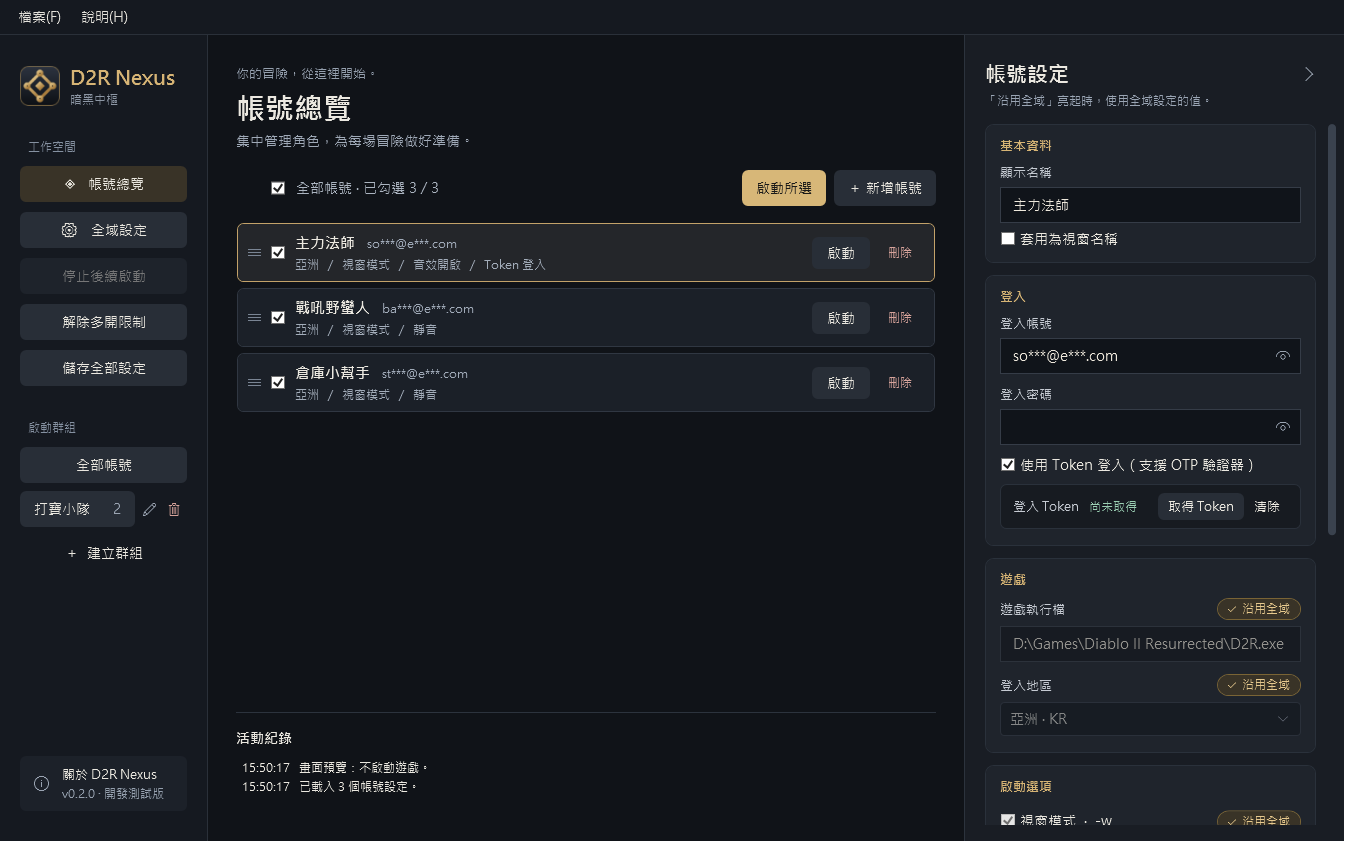
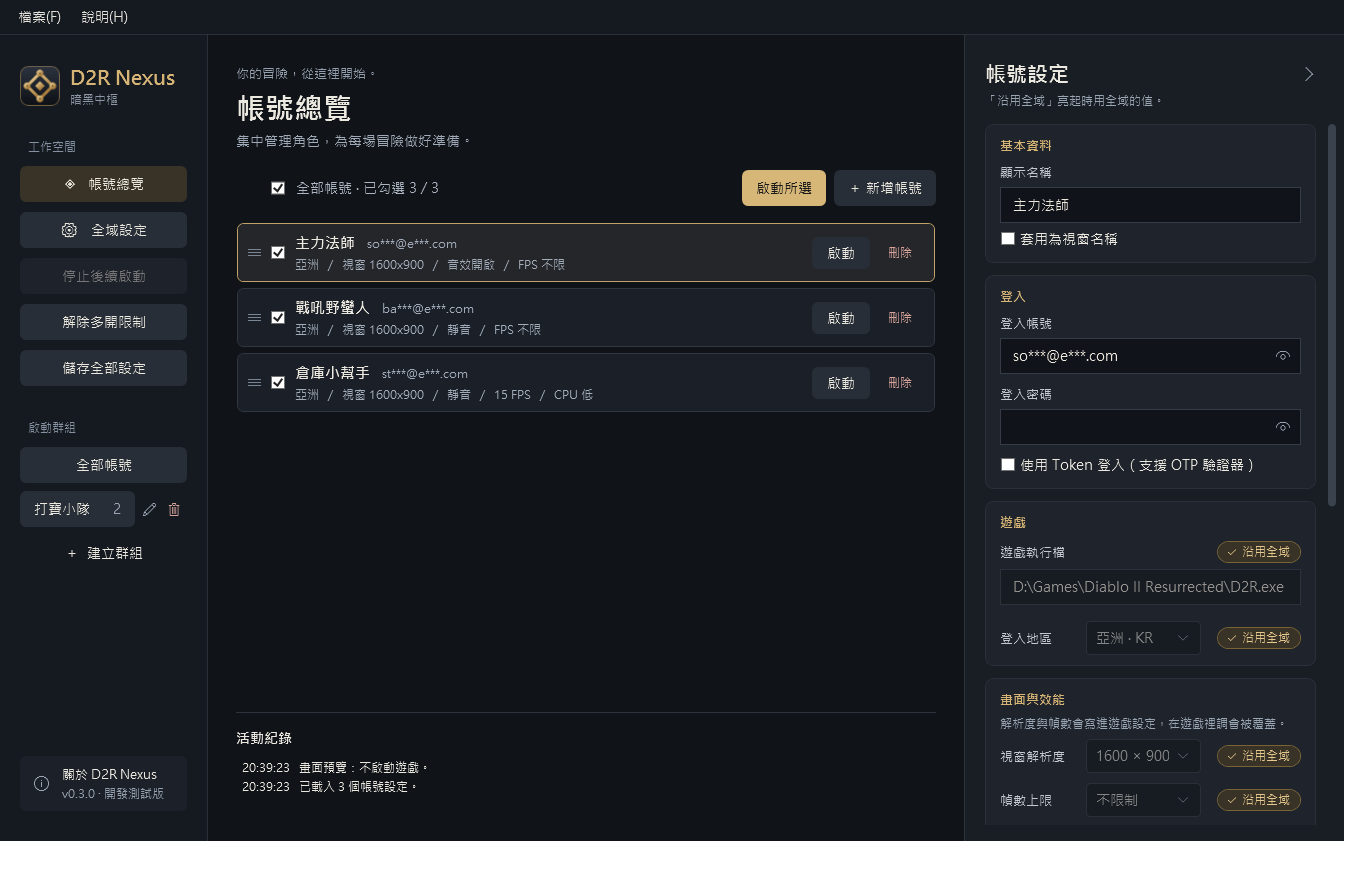
Add files via upload

diff --git a/README.md b/README.md
@@ -17,17 +17,28 @@
 
 > 目前是開發測試版，部分情境仍在實機驗證中。
 
-## 功能
+## ✨ 功能
 
-- **一鍵多開**，依你排的順序逐一開啟
-- **支援 OTP 驗證器**，手機核准一次，之後直接啟動
-- **群組**，常一起玩的帳號一鍵勾選
-- **每個帳號獨立設定**：地區、視窗模式與解析度、靜音、MOD、額外參數
-- **視窗改名**，遊戲標題改成帳號名稱
-- **畫面隱私**，帳號自動打碼；密碼與 Token 以 Windows 加密保存在本機
-- **免安裝**，一個 exe 就能執行
+**多開與登入**
 
-## 下載
+- **一鍵多開** —— 勾選帳號，依你排的順序逐一開啟，自動解除多開限制
+- **支援 OTP 驗證器** —— 手機核准一次，之後直接啟動
+- **群組** —— 常一起玩的帳號一鍵勾選
+
+**每個帳號可以各自設定**
+
+- **登入地區、視窗模式、靜音、MOD、額外參數**
+- **畫面與效能** —— 視窗解析度、幀數上限、CPU 優先順序。背景帳號鎖低幀、把優先順序設低，資源留給主力帳號
+- **視窗改名** —— 遊戲標題改成帳號名稱，多開時不會認錯
+
+**其他**
+
+- **免安裝** —— 一個 exe，不用另外裝 .NET
+- **畫面隱私** —— 帳號自動打碼；密碼與 Token 以 Windows 加密保存在本機
+- **右下角圖示** —— 按關閉鈕可以選擇收到工作列右下角，程式繼續執行
+- **檢查新版本** —— 有新版會提示，不會自動下載或安裝，可關閉
+
+## ⬇ 下載
 
 到 [Releases](https://github.com/MoroseDog/D2RNexus/releases) 下載 `D2RNexus.exe`，放在任意資料夾直接執行。[版本紀錄](CHANGELOG.md)
 
@@ -36,11 +47,11 @@
 | 系統 | Windows 10 / 11（64 位元） |
 | 遊戲 | 已安裝《暗黑破壞神 II：獄火重生》 |
 | WebView2 | OTP 登入時需要，Windows 10 / 11 通常已內建 |
-| 網路 | 登入 Battle.net；第一次多開時自動下載微軟官方工具 |
+| 網路 | 登入 Battle.net；第一次多開時下載微軟官方工具；開啟時查詢新版本（可關閉） |
 
 程式沒有購買程式碼簽章，所以會跳警告：Edge 下載時點「刪除」旁的 **∨** →「仍要保留」；執行時按「其他資訊」→「仍要執行」。原因見[安全性說明](SECURITY.md)。
 
-## 快速開始
+## 🚀 快速開始
 
 1. 開啟 Nexus，Windows 詢問管理員權限時按「是」。
 2. 左側「全域設定」→「瀏覽遊戲執行檔…」，選擇 `D2R.exe`。
@@ -50,13 +61,15 @@
 
 拖曳帳號左側的 ≡ 調整啟動順序；亮起的「沿用全域」表示該項使用全域設定，點一下改成個別設定。
 
-## 不是外掛
+> 💡 多開時，把背景帳號的**幀數上限**調低、**CPU 優先順序**設成「低」，主力帳號會順一點。
+
+## 🛡 不是外掛
 
 Nexus 只是幫你開遊戲的管理工具，**不注入程式、不讀寫遊戲記憶體、不改遊戲檔案、不攔截連線、不自動操作遊戲、不模擬鍵盤滑鼠、不繞過驗證、不上傳你的資料**。每一項做法、需要的權限和連線對象都寫在[安全性說明](SECURITY.md)。
 
 多開與第三方工具是否符合規範，最終以 Blizzard 的使用條款與判定為準，Nexus 無法保證帳號不會受到任何處分。
 
-## 常見問題
+## ❓ 常見問題
 
 <details>
 <summary>連線 Battle.net 顯示「無法認證」</summary>
@@ -74,6 +87,30 @@ Nexus 只是幫你開遊戲的管理工具，**不注入程式、不讀寫遊戲
 <summary>用 Apple、Google 等方式登入，沒有 Battle.net 密碼</summary>
 
 取得 Token 的頁面只接受 Email 和密碼。請在登入視窗按右上角的「用其他方式登入」，用平常的方式登入後再按「完成登入」。步驟見[用 Apple、Google 等方式登入](docs/apple-login.md)。
+</details>
+
+<details>
+<summary>Nexus 會改到我在遊戲裡調的設定嗎？</summary>
+
+只會寫入你在「畫面與效能」設定的**視窗解析度**和**幀數上限**，其他遊戲設定（畫質、音量、自動地圖、按鍵…）完全不碰。
+
+那兩項由 Nexus 決定，所以在遊戲裡改了之後，下次啟動會被帳號的設定覆蓋。想把遊戲裡調好的值變成預設，到「全域設定 → 畫面與效能」按一次「讀取目前遊戲設定」。
+</details>
+
+<details>
+<summary>CPU 優先順序有什麼用？</summary>
+
+多開時大家一起搶 CPU，把背景帳號設成「低」，主力帳號就會先用到 CPU，卡頓會少一點。
+
+要注意它**不會讓 CPU 使用率變低**，只是決定誰先用。如果你開的數量不多、CPU 沒有吃滿，設了也不會有感覺，維持「正常」就好。
+</details>
+
+<details>
+<summary>關掉視窗以後程式還在跑？</summary>
+
+按關閉鈕時可以選「收到右下角」，Nexus 就會繼續在背景執行，點工作列右下角的圖示能叫回來，右鍵有「顯示主視窗 / 結束」。
+
+這個選擇可以記住，之後想改到「全域設定 → 視窗 → 按關閉鈕時」。按最小化則和一般程式一樣，留在工作列。
 </details>
 
 <details>
@@ -112,13 +149,13 @@ Nexus 只是幫你開遊戲的管理工具，**不注入程式、不讀寫遊戲
 刪除 `D2RNexus.exe` 與資料夾 `%LOCALAPPDATA%\D2RNexus`。用過視窗解析度的話，遊戲設定資料夾裡的 `Settings.json.nexus-backup` 也可以刪。
 </details>
 
-## 回報問題
+## 🐛 回報問題
 
 到 [Issues](https://github.com/MoroseDog/D2RNexus/issues) 描述狀況，並附上作業系統、遊戲版本、Nexus 版本、登入方式，以及日誌（上方選單「說明 → 開啟日誌資料夾」）。
 
 Issues 是公開的，請不要貼出密碼、Token、完整 Email 或 BattleTag，截圖也請先遮住帳號。
 
-## 授權
+## 📄 授權
 
 Copyright © 2026 J.J. Huang，保留所有權利。可免費供個人使用；未經作者書面同意，不得修改、重新散布或販售。完整條款見 [LICENSE.txt](LICENSE.txt)，第三方元件授權見 [THIRD-PARTY-NOTICES.txt](THIRD-PARTY-NOTICES.txt)。
 

diff --git a/SECURITY.md b/SECURITY.md
@@ -16,7 +16,9 @@
 | 啟動遊戲 | 用遊戲本身支援的啟動參數執行 `D2R.exe` |
 | 解除多開限制 | 用微軟官方工具 Sysinternals Handle，關閉遊戲用來檢查「是否已經開過一個」的系統標記 |
 | 視窗改名 | 用 Windows 標準功能修改遊戲視窗的標題文字 |
-| 視窗解析度 | 只改寫遊戲設定檔 `Settings.json` 裡的視窗大小，第一次改寫前會備份 |
+| 畫面設定 | 只改寫遊戲設定檔 `Settings.json` 裡的視窗大小與幀數上限，其他項目不動，第一次改寫前會備份 |
+| CPU 優先順序 | 遊戲啟動後用 Windows 標準功能調整「這個程序」的優先順序，讓多開時主力帳號先用到 CPU；不改遊戲、不改系統設定 |
+| 檢查新版本 | 開啟時讀取本專案 Release 的版本號，比目前版本新就提示。不會自動下載或安裝，可在全域設定關閉 |
 | OTP 帳號登入 | 開啟 Battle.net 官方登入頁取得登入 Token，寫到 Battle.net 啟動器本身使用的 Windows 登錄位置；遊戲讀取後會自動清空 |
 | 認出自己開的遊戲 | 記住程序編號、啟動時間與執行檔路徑，避免同一個帳號被重複開啟 |
 
@@ -45,11 +47,12 @@
 
 ## 會連線到哪裡
 
-只有三個對象：
+只有這幾個對象：
 
 1. **Battle.net 官方登入頁**：只在你按「取得 Token」時開啟。帳號密碼只會自動填入網址為 `battle.net` 或 `*.battle.net` 的頁面；用 Apple 等其他方式登入時，那些頁面 Nexus 一個字都不會填。
 2. **微軟下載網站**（`download.sysinternals.com`）：第一次多開、經你同意後下載 Handle 工具。下載後會確認是有效的微軟簽章檔案才使用。
-3. **遊戲本身連線 Battle.net**：這是遊戲自己的連線，和 Nexus 無關。
+3. **GitHub**（`api.github.com`）：開啟時查本專案最新版本號。送出的只是一個一般的網頁請求，不含任何你的資料；可以在全域設定關閉。
+4. **遊戲本身連線 Battle.net**：這是遊戲自己的連線，和 Nexus 無關。
 
 Nexus 沒有任何把你的帳號、密碼、Token 或設定送到其他地方的功能。
 

diff --git a/CHANGELOG.md b/CHANGELOG.md
@@ -2,6 +2,21 @@
 
 最新的版本在最上面。下載請到 [Releases](https://github.com/MoroseDog/D2RNexus/releases)。
 
+## v0.3.0（2026-09-20）
+
+**新增**
+
+- **每個帳號的畫面與效能設定**：視窗解析度、幀數上限、CPU 優先順序，可以沿用全域，也可以每個帳號各設一組。背景帳號鎖低幀數、把 CPU 優先順序設低，讓主力帳號跑得順一點。解析度和幀數都能自行輸入數字。
+- 第一次開啟時會讀取你目前的遊戲設定當預設值，所以第一次啟動不會改到任何東西。之後只有按「讀取目前遊戲設定」才會重讀。
+- **右下角圖示**：按關閉鈕時可以選擇結束程式或收到工作列右下角，選擇可以記住。收起來之後程式繼續執行，點圖示就能叫回來。
+- **檢查新版本**：開啟時看看有沒有新版並提示，只讀版本號，不會自動下載或安裝。可以在全域設定關閉。
+- 再次開啟 Nexus 時，會把已經在執行的視窗叫到前面，不再跳警告。
+
+**改善**
+
+- 移除帳號與刪除群組會先跳確認視窗，確認按鈕倒數三秒才能按，避免手誤。
+- 帳號設定的版面整理：下拉選單改成接在標題後面，說明文字精簡。
+
 ## v0.2.2（2026-09-20）
 
 **新增**
